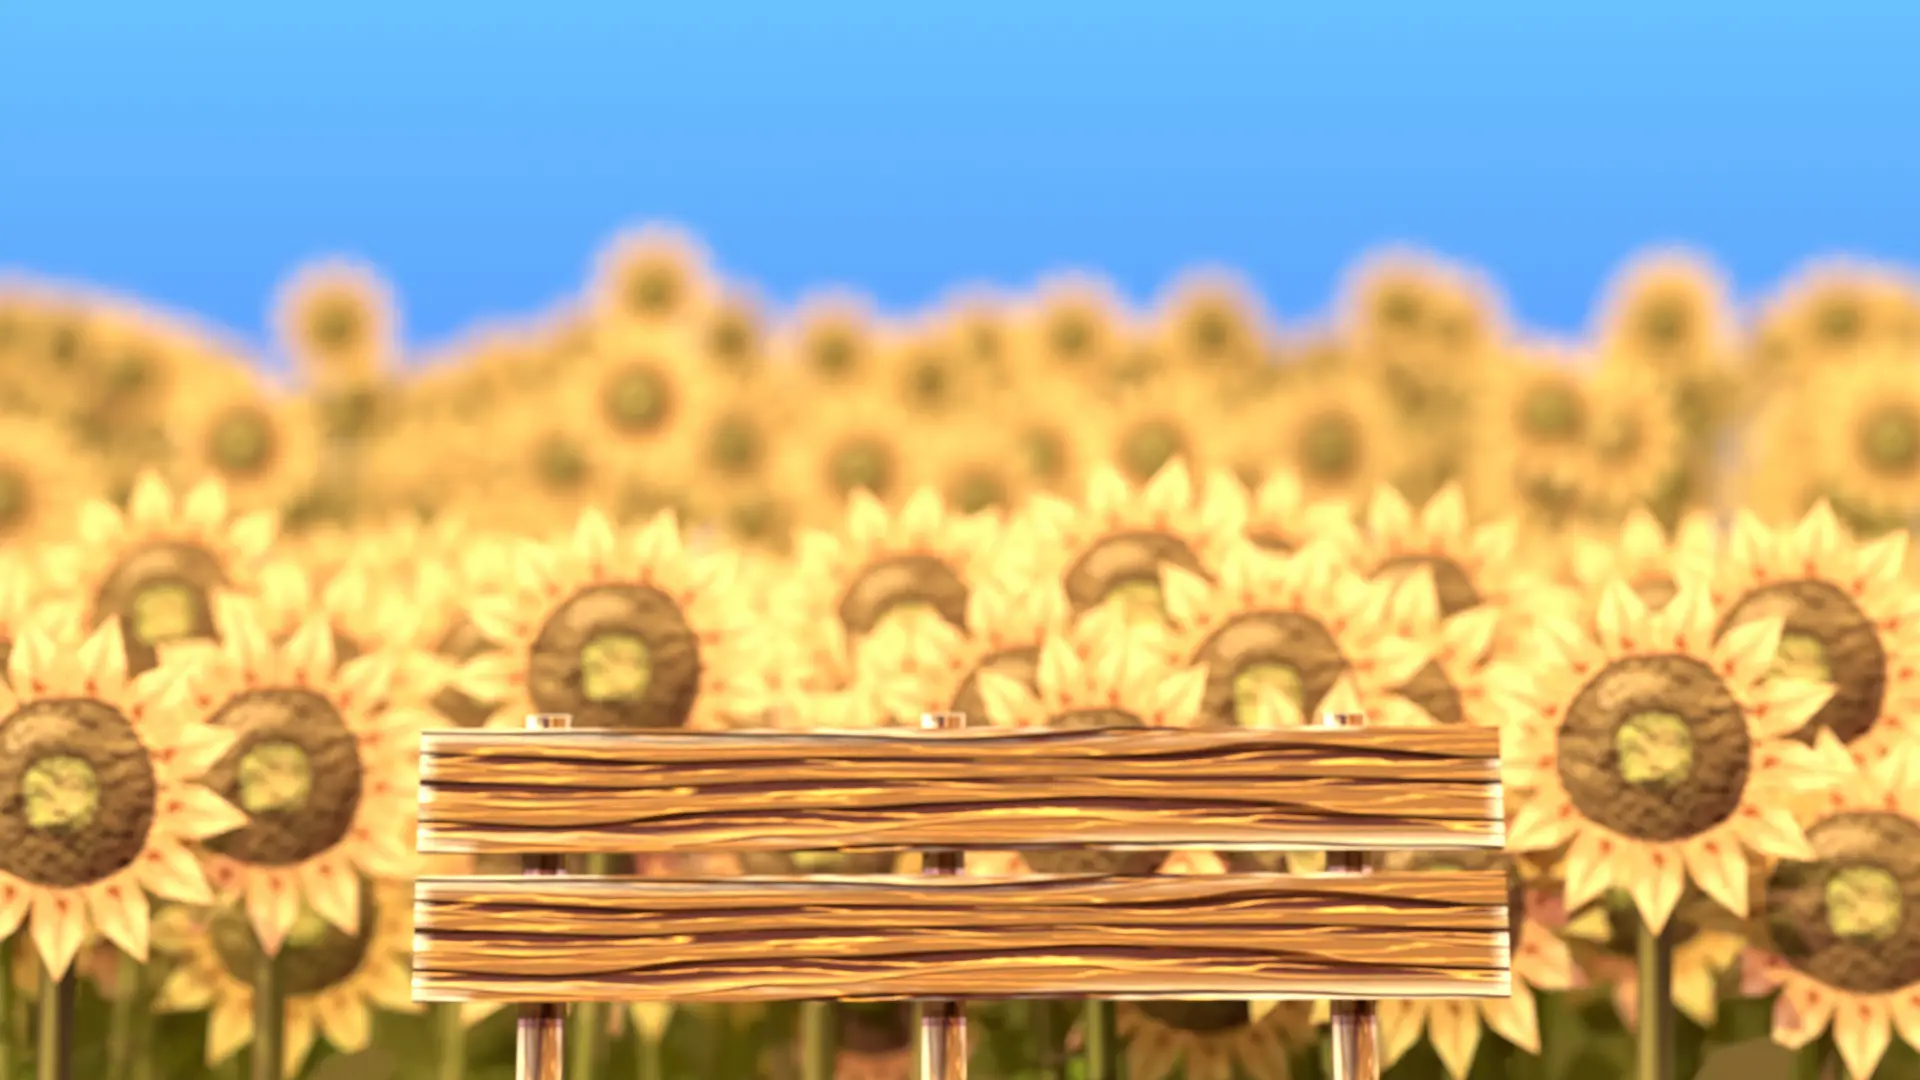
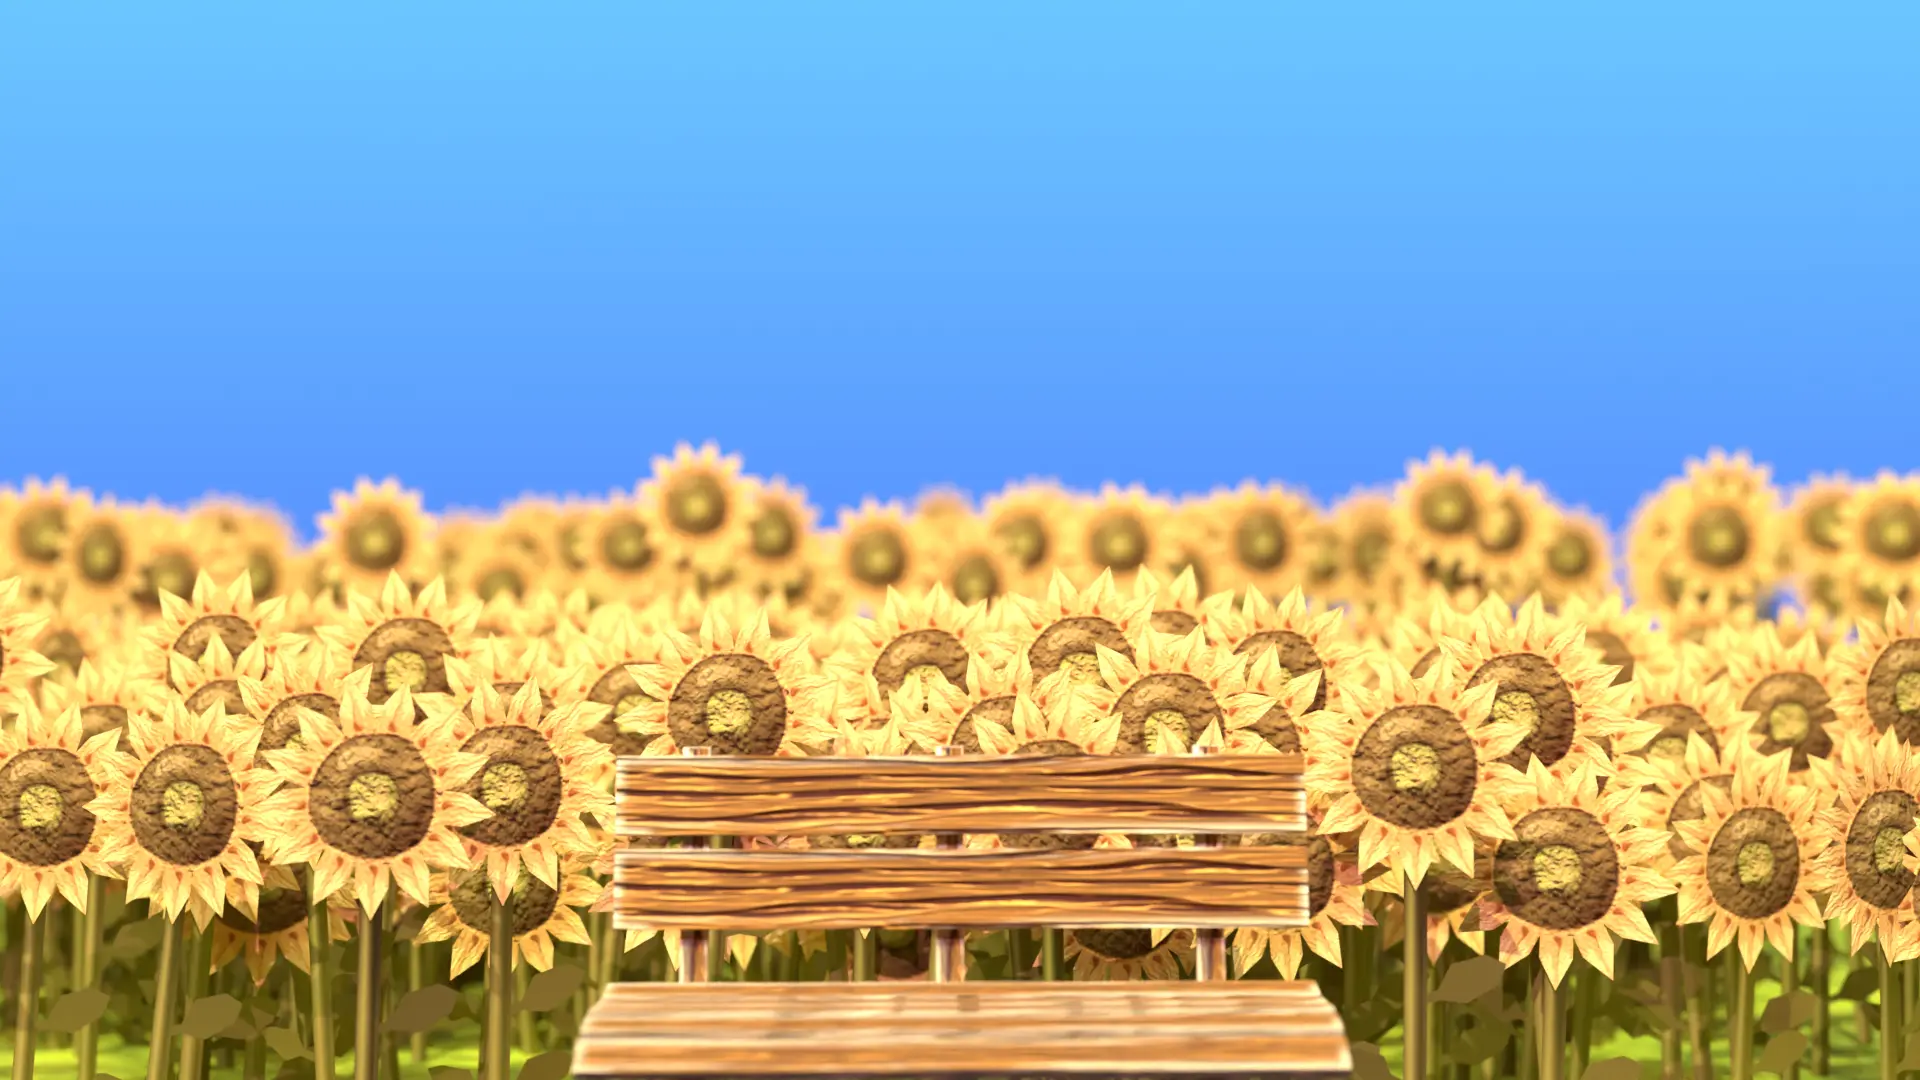
update dist

diff --git a/index.html b/index.html
@@ -21,7 +21,7 @@
     <link rel="apple-touch-icon" sizes="180x180" href="/apple-touch-icon.png" />
     <meta name="apple-mobile-web-app-title" content="neppienep.info" />
     <link rel="manifest" href="/site.webmanifest" />
-    <script type="module" crossorigin src="/assets/index-B4r1xxZY.js"></script>
+    <script type="module" crossorigin src="/assets/index-B1pB9EU8.js"></script>
   </head>
   <body>
     <div id="nepApp"></div>

diff --git a/assets/theme-summer-d1eR6gTQ.js b/assets/theme-summer-d1eR6gTQ.js
@@ -1,0 +1,1 @@
+const s="/assets/main-D27bGYwl.css";export{s as default};